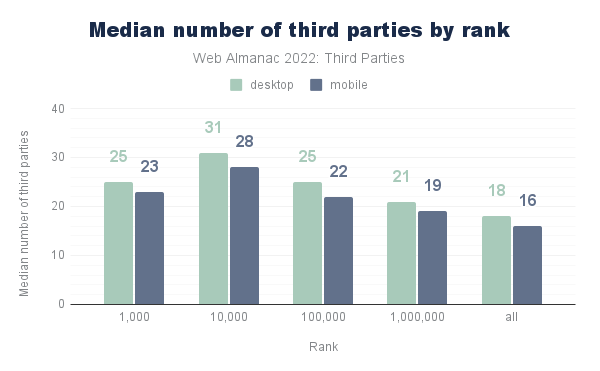
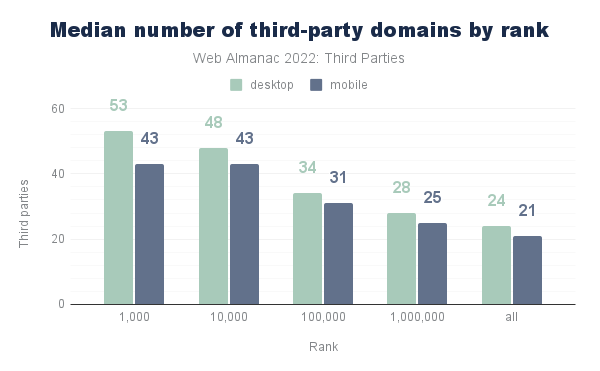
Update Prevalence section

diff --git a/src/content/en/2022/third-parties.md b/src/content/en/2022/third-parties.md
@@ -88,32 +88,32 @@ Learn more about our [Methodology](./methodology).
 )
 }}
 
-The prevalence of third-parties remained at the same high levels as the previous year, i.e. 94% of websites use at least one-third party.
+The prevalence of third-parties remained at the same high levels as the previous year, i.e. 94% of websites use at least one third party.
 
-<!-- TODO: update charts and text once data is validated -->
-<!-- {{ figure_markup(
+{{ figure_markup(
   image="median-number-of-third-parties-by-rank.png",
-  caption="Median number of third parties per website by rank.",
-  description="Bar chart showing the median number of third-parties across various website rank categories. For the top 1,000 websites 25 and 23 third-parties are used on desktop and mobile websites respectively. The top 10,000 websites use 31 and 28 third-parties on desktop and mobile websites respectively. The top 100,000 websites use 25 and 22 third-parties on desktop and mobile websites respectively. The top 1,000,000 websites use 21 and 19 third-parties on desktop and mobile websites respectively. The median number of third-parties for all websites is 18 and 16 on desktop and mobile websites respectively.",
-  chart_url="https://docs.google.com/spreadsheets/d/e/2PACX-1vSefmoEZjMhonz5fkMTxGIywJn-T7F8vYGAaj9wF9n5l8gApihCf3WCMZtrP3Syg-9E8RD8IKZg62U7/pubchart?oid=765132350&format=interactive",
+  caption="Median number of third-party domains per page by rank.",
+  description="Bar chart showing the median number of third-party domains across various website rank categories. For the top 1,000 websites 53 and 43 third-parties are used on desktop and mobile websites respectively. The top 10,000 websites use 48 and 43 third-parties on desktop and mobile websites respectively. The top 100,000 websites use 34 and 31 third-parties on desktop and mobile websites respectively. The top 1,000,000 websites use 28 and 25 third-parties on desktop and mobile websites respectively. The median number of third-parties for all websites is 24 and 21 on desktop and mobile websites respectively.",
+  chart_url="https://docs.google.com/spreadsheets/d/e/2PACX-1vSefmoEZjMhonz5fkMTxGIywJn-T7F8vYGAaj9wF9n5l8gApihCf3WCMZtrP3Syg-9E8RD8IKZg62U7/pubchart?oid=1946246067&format=interactive",
   sheets_gid="1355951746",
   sql_file="number_of_third_party_providers_by_rank.sql"
   )
-}} -->
-<!--
-This figure shows the number of third parties for the most-used websites. For example, on average the top 1,000 popular websites use 23 third-parties on mobile and 25 on desktop devices. More popular websites seem to have a larger number of third parties, i.e. top 10,000 sites have twice more third parties than the median number of third-parties for all websites. -->
+}}
 
-<!-- {{ figure_markup(
-  image="websites-by-rank-and-third-party-category",
-  caption="Percent of websites by third-party category and website rank.",
-  description="",
-  chart_url="https://docs.google.com/spreadsheets/d/e/2PACX-1vSefmoEZjMhonz5fkMTxGIywJn-T7F8vYGAaj9wF9n5l8gApihCf3WCMZtrP3Syg-9E8RD8IKZg62U7/pubchart?oid=171851512&format=interactive",
+The figure above shows the number of third-party domains for the most-used websites. For example, on average the top 1,000 popular websites use 43 third-party domains on mobile and 53 on desktop devices. More popular websites seem to have a larger number of third-party domains, i.e. top 1,000 sites have twice more third parties than the median number of third-parties for all websites. This large number is explained by the fact that some third party providers might have content hosted on multiple domains, for example, Yahoo serves their content from mempf.yahoo.co.jp, yjtag.yahoo.co.jp, etc.
+Though the exact number of third party providers is still a subject for further research, the current data about third-party domains gives an overview of how much they might affect time spent on network requests. As every request to a new domain takes time for DNS lookup and establishing an initial connection, the more third party domains are used the more it might affect page loading speed.
+
+{{ figure_markup(
+  image="third-party-domains-per-page-by-rank-and-category.png",
+  caption="Median number of third-party domains per page by category and rank.",
+  description="Bar chart showing the median number of third-party domains by third-party category across various website rank categories. The data is shown for mobile pages. Only ad, unknown, and video category differs significantly depending on a rank. For the top 1,000 websites 18 third-party domains are from ad category, 21 unknown, and 5 video. For the top 10,000 websites 22 are from ad category, 16 unknown, and 4 video. For the top 100,000 websites 15 are from ad category, 12 unknown, and 8 video. For the top 1,000,000 websites 7 are from ad category, 9 unknown, and 11 video. For all websites 4 are from ad category, 8 unknown, and 11 video. Data about the rest of third-party categories shows that analicts category makes up from 3 to 5 third-party domains per page, CDN 4-5 domains, consent providers 7-8, content providers 3-5, customer success 9, marketing 2-3, social 5-6, tag manager 1-2, utility category 3-4, and other category 2.",
+  chart_url="https://docs.google.com/spreadsheets/d/e/2PACX-1vSefmoEZjMhonz5fkMTxGIywJn-T7F8vYGAaj9wF9n5l8gApihCf3WCMZtrP3Syg-9E8RD8IKZg62U7/pubchart?oid=419972852&format=interactive",
   sheets_gid="1355951746",
   sql_file="number_of_third_parties_by_rank_and_category.sql"
   )
-}} -->
+}}
 
-<!-- When looking at the distribution of third-parties by category and rank, it becomes clear that the increase in the number of third-parties on more popular websites is mostly made up of the "ad" category. That means the third parties, especially ads have a crucial impact on the user experience because they are more used on the websites with a larger number of users. -->
+When looking at the distribution of third-parties by category and by rank, it becomes clear that the increase in the number of third parties on more popular websites is mostly made up of the ad and unknown third-party category. That means the third parties especially ads have a crucial impact on the users because they are more used on the websites with a larger number of users.
 
 {{ figure_markup(
   image="top-third-parties-by-number-of-pages.png",
